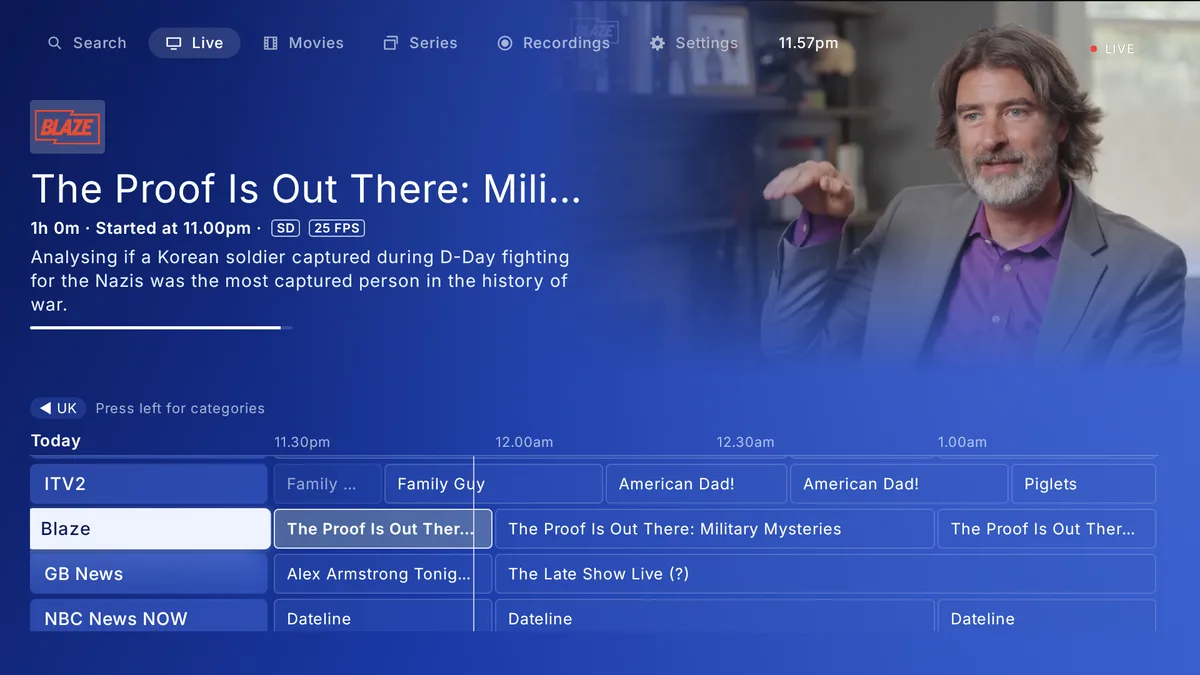
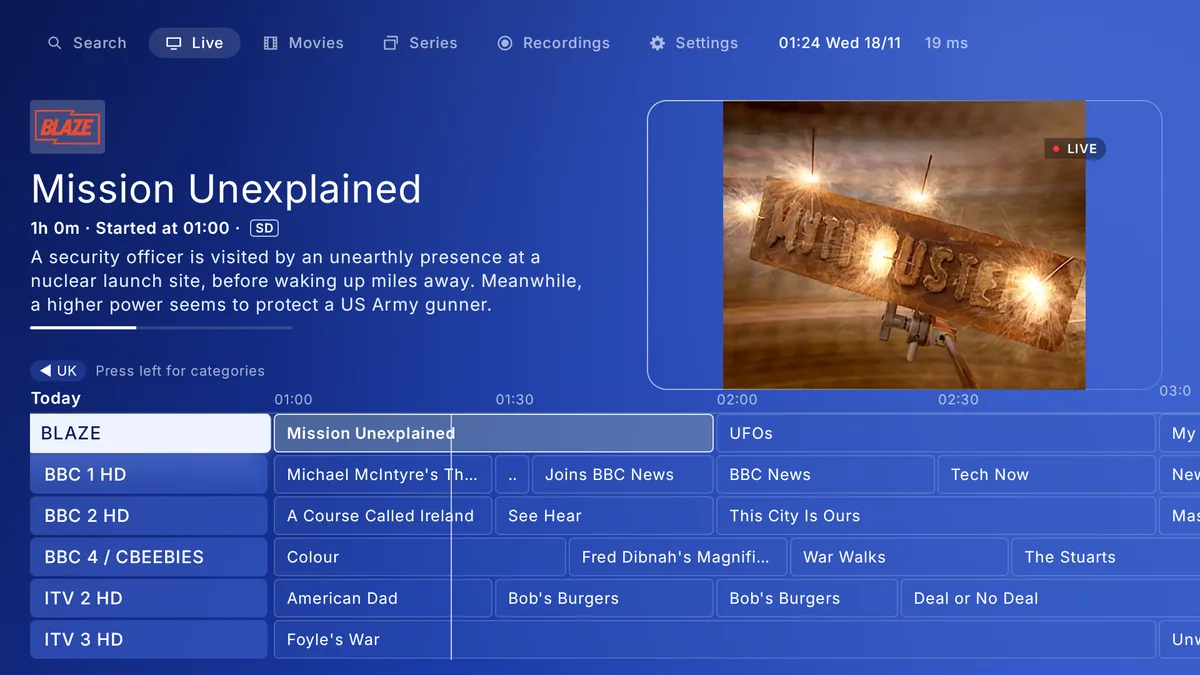
0.5.0: Backup & sync split into Backup & restore and Sync pages; generic pairing steps; new Celestial Glass site shot

diff --git a/app/src/main/java/org/imdtv/iptvtv/ui/settings/SyncSettings.kt b/app/src/main/java/org/imdtv/iptvtv/ui/settings/SyncSettings.kt
@@ -44,16 +44,17 @@ private const val SYNC_LIMITS = "• Both boxes must be on, with IMD TV open or 
     "• Changes made on a follower are replaced at its next sync.\n" +
     "• Logins are sent only to boxes you pair, on this network."
 
-private fun masterSteps(name: String) = "On each box that should copy this one:\n" +
-    "1. Open IMD TV › Settings › Backup & sync › Sync between boxes.\n" +
-    "2. Set This box to Follower.\n" +
-    "3. Choose Master, then pick $name.\n" +
-    "4. A code appears on this screen: type it on the other box and choose Pair.\n" +
-    "That box then copies this one. Add as many boxes as you like; they're listed under Followers."
+private const val MASTER_STEPS = "This box is now the master. To add a follower, go to the other box:\n" +
+    "1. On the other box, open IMD TV › Settings › Backup & sync › Sync.\n" +
+    "2. Set Role to Follower, then choose Turn on and OK.\n" +
+    "3. Still on the other box, choose Master, then pick this box from the list.\n" +
+    "4. A six-digit code appears on this screen. Type it on the other box and choose Pair.\n" +
+    "Repeat for as many boxes as you like; they're listed here under Followers."
 
-private const val FOLLOWER_STEPS = "1. On the box to copy, open IMD TV › Settings › Backup & sync › Sync between boxes and set This box to Master.\n" +
-    "2. Here, choose Master, then pick that box from the list.\n" +
-    "3. A code appears on that box's screen: type it here and choose Pair.\n" +
+private const val FOLLOWER_STEPS = "This box is now a follower. To pair it:\n" +
+    "1. On the box to copy, open IMD TV › Settings › Backup & sync › Sync and set Role to Master.\n" +
+    "2. Back on this box, choose Master, then pick that box from the list.\n" +
+    "3. A six-digit code appears on that box's screen. Type it here and choose Pair.\n" +
     "This box then copies the master each time IMD TV opens and every 6 hours."
 
 private fun whenText(t: Long) = "${dayDate(t)} ${clockTime(t)}"
@@ -74,7 +75,7 @@ fun PairingPrompt(sync: SyncManager) {
     }
 }
 
-/** Settings › Backup & sync › Sync between boxes. */
+/** Settings › Backup & sync › Sync. */
 @Composable
 fun SyncPage(vm: SettingsViewModel, modifier: Modifier, first: FocusRequester, onClose: () -> Unit) {
     BackHandler(onBack = onClose)
@@ -97,8 +98,8 @@ fun SyncPage(vm: SettingsViewModel, modifier: Modifier, first: FocusRequester, o
     val m = state.master
 
     Column(modifier.verticalScroll(rememberScrollState()), verticalArrangement = Arrangement.spacedBy(6.dp)) {
-        Text("Sync between boxes", fontSize = 20.sp, color = Color.White, modifier = Modifier.padding(top = 6.dp, bottom = 18.dp))
-        ChoiceRow("This box", when (state.role) {
+        Text("Sync", fontSize = 20.sp, color = Color.White, modifier = Modifier.padding(top = 6.dp, bottom = 18.dp))
+        ChoiceRow("Role", when (state.role) {
                 SyncRole.OFF -> "One box (the master) keeps the others' playlists and settings the same"
                 SyncRole.MASTER -> "Other boxes copy this one"
                 SyncRole.FOLLOWER -> "This box copies the master"
@@ -111,7 +112,7 @@ fun SyncPage(vm: SettingsViewModel, modifier: Modifier, first: FocusRequester, o
             state.followers.forEach { f ->
                 SettingRow(f.name, f.lastSynced?.let { "Last synced ${whenText(it)}" } ?: "Not synced yet", "Remove") { removing = f }
             }
-            if (state.followers.isEmpty()) Text("No followers yet. On the other box choose Follower, then this box: ${sync.boxName}", fontSize = 14.sp, color = muted)
+            if (state.followers.isEmpty()) Text("No followers yet. On the other box, set Role to Follower, then choose Master and pick this box", fontSize = 14.sp, color = muted)
         }
         if (state.role == SyncRole.FOLLOWER) {
             SettingRow("Master", problem ?: m?.lastSynced?.let { "Last synced ${whenText(it)}" } ?: if (m != null) "Not synced yet" else "Not paired",
@@ -154,7 +155,7 @@ fun SyncPage(vm: SettingsViewModel, modifier: Modifier, first: FocusRequester, o
     }
     setup?.let { r ->
         MenuFrame(if (r == SyncRole.MASTER) "Set up a follower" else "Pair with the master", onDismiss = { setup = null }) { f ->
-            ScrollText(if (r == SyncRole.MASTER) masterSteps(sync.boxName) else FOLLOWER_STEPS, Modifier.focusRequester(f).padding(bottom = 10.dp))
+            ScrollText(if (r == SyncRole.MASTER) MASTER_STEPS else FOLLOWER_STEPS, Modifier.focusRequester(f).padding(bottom = 10.dp))
             MenuItem("OK", Modifier) { setup = null }
         }
     }

diff --git a/app/src/main/java/org/imdtv/iptvtv/ui/settings/SettingsScreen.kt b/app/src/main/java/org/imdtv/iptvtv/ui/settings/SettingsScreen.kt
@@ -77,6 +77,9 @@ fun SettingsScreen(vm: SettingsViewModel, onAddPlaylist: () -> Unit, onEditPlayl
     var syncOpen by remember { mutableStateOf(false) }
     var reopenSync by remember { mutableStateOf(false) }
     val syncOpener = remember { FocusRequester() }
+    var backupOpen by remember { mutableStateOf(false) }
+    var reopenBackup by remember { mutableStateOf(false) }
+    val backupOpener = remember { FocusRequester() }
     var reopenSources by remember { mutableStateOf(false) }
     val sourcesOpener = remember { FocusRequester() }
     var reopenPlaylist by remember { mutableStateOf<Long?>(null) }
@@ -118,6 +121,14 @@ fun SettingsScreen(vm: SettingsViewModel, onAddPlaylist: () -> Unit, onEditPlayl
         enterTarget.value = null
         reopenSync = false
     }
+    LaunchedEffect(backupOpen) {
+        if (backupOpen || !reopenBackup) return@LaunchedEffect
+        enterTarget.value = backupOpener
+        withFrameNanos { }
+        runCatching { backupOpener.requestFocus() }
+        enterTarget.value = null
+        reopenBackup = false
+    }
     LaunchedEffect(playlist) {
         val back = reopenPlaylist?.takeIf { playlist == null } ?: return@LaunchedEffect
         withFrameNanos { }
@@ -140,7 +151,7 @@ fun SettingsScreen(vm: SettingsViewModel, onAddPlaylist: () -> Unit, onEditPlayl
                     FocusBox(
                         onClick = { runCatching { rowsFocus.requestFocus() } },
                         modifier = if (g == group) Modifier.focusRequester(groupFocus) else Modifier,
-                        onFocused = { if (g != group) { page = null; playlist = null; sourcesOpen = false; recordingOpen = false; syncOpen = false }; group = g },
+                        onFocused = { if (g != group) { page = null; playlist = null; sourcesOpen = false; recordingOpen = false; syncOpen = false; backupOpen = false }; group = g },
                     ) { f ->
                         Text(
                             g.title, fontSize = 15.sp, color = if (f) Color.Black else if (g == group) Color.White else LocalTheme.current.colors.muted,
@@ -178,7 +189,8 @@ fun SettingsScreen(vm: SettingsViewModel, onAddPlaylist: () -> Unit, onEditPlayl
             if (sourcesOpen) EpgSourcesPage(vm, pane, rowsFocus, { park() }) { park(); reopenSources = true; sourcesOpen = false }
             if (recordingOpen) org.imdtv.iptvtv.recording.RecordingPage(vm, pane, rowsFocus) { park(); reopenRecording = true; recordingOpen = false }
             if (syncOpen) SyncPage(vm, pane, rowsFocus) { park(); reopenSync = true; syncOpen = false }
-            if (page == null && playlist == null && !sourcesOpen && !recordingOpen && !syncOpen) Column(pane.verticalScroll(rememberScrollState()), verticalArrangement = Arrangement.spacedBy(6.dp)) {
+            if (backupOpen) BackupPage(vm, pane, rowsFocus) { park(); reopenBackup = true; backupOpen = false }
+            if (page == null && playlist == null && !sourcesOpen && !recordingOpen && !syncOpen && !backupOpen) Column(pane.verticalScroll(rememberScrollState()), verticalArrangement = Arrangement.spacedBy(6.dp)) {
                 val syncNow by vm.sync.state.collectAsState()
                 syncNow.master?.takeIf { syncNow.role == org.imdtv.iptvtv.data.sync.SyncRole.FOLLOWER }?.let {
                     Text("Following ${it.name}: changes made here are replaced at the next sync.", fontSize = 14.sp, color = LocalTheme.current.colors.muted)
@@ -222,7 +234,12 @@ fun SettingsScreen(vm: SettingsViewModel, onAddPlaylist: () -> Unit, onEditPlayl
                             vm.update { it.copy(showPing = on) }
                         }
                     }
-                    SettingsGroup.BACKUP -> BackupRows(vm, first, Modifier.focusRequester(syncOpener)) { park(); syncOpen = true }
+                    SettingsGroup.BACKUP -> {
+                        SettingRow("Backup & restore", "Back up now, choose the backup folder, or restore a backup", "›",
+                            first.focusRequester(backupOpener)) { park(); backupOpen = true }
+                        SettingRow("Sync", "One box (the master) keeps the others' playlists and settings the same",
+                            syncRoleLabel(syncNow.role) + " ›", Modifier.focusRequester(syncOpener)) { park(); syncOpen = true }
+                    }
                     SettingsGroup.ABOUT -> AboutRows(first)
                 }
             }

diff --git a/app/src/main/java/org/imdtv/iptvtv/ui/settings/BackupSettings.kt b/app/src/main/java/org/imdtv/iptvtv/ui/settings/BackupSettings.kt
@@ -1,7 +1,11 @@
 package org.imdtv.iptvtv.ui.settings
 
 import androidx.activity.compose.BackHandler
+import androidx.compose.foundation.layout.Arrangement
+import androidx.compose.foundation.layout.Column
 import androidx.compose.foundation.layout.padding
+import androidx.compose.foundation.rememberScrollState
+import androidx.compose.foundation.verticalScroll
 import androidx.compose.runtime.Composable
 import androidx.compose.runtime.LaunchedEffect
 import androidx.compose.runtime.collectAsState
@@ -27,7 +31,7 @@ import org.imdtv.iptvtv.ui.theme.LocalTheme
  * "Back up now" and "Restore" stay put while the list/form below them changes, so focus always has a row to return to.
  */
 @Composable
-fun BackupRows(vm: SettingsViewModel, first: Modifier, syncOpener: Modifier, onOpenSync: () -> Unit) {
+fun BackupRows(vm: SettingsViewModel, first: Modifier) {
     val status by vm.backupStatus.collectAsState()
     val files by vm.backupFiles.collectAsState()
     val pending by vm.pendingRestore.collectAsState()
@@ -47,9 +51,6 @@ fun BackupRows(vm: SettingsViewModel, first: Modifier, syncOpener: Modifier, onO
     SettingRow("Back up now", "Save playlists, categories, favourites and settings to a file — logins are never saved", null, first) { vm.backUpNow() }
     SettingRow("Backup folder", "Where backups are saved; OK to choose", settings.backupFolder?.substringAfterLast('/') ?: "Downloads",
         Modifier.focusRequester(folderRow)) { listing = false; browsing = BrowseMode.SAVE }
-    val syncState by vm.sync.state.collectAsState()
-    SettingRow("Sync between boxes", "One box (the master) keeps the others' playlists and settings the same",
-        syncRoleLabel(syncState.role) + " ›", syncOpener) { park(); onOpenSync() }
     browsing?.let { mode ->
         FolderBrowser(mode, park = ::park, onClose = { park(); browsing = null; if (mode == BrowseMode.RESTORE) refocusRestore = true },
             onFolder = { vm.setBackupFolder(it) }, onFile = { vm.openBackup(it); listing = false })
@@ -69,6 +70,17 @@ fun BackupRows(vm: SettingsViewModel, first: Modifier, syncOpener: Modifier, onO
             if (files.isEmpty()) Text("No backups in Downloads, your backup folder or on USB sticks", fontSize = 14.sp, color = LocalTheme.current.colors.muted)
             SettingRow("Browse for a backup…", "Find a backup file in any folder", "›") { park(); browsing = BrowseMode.RESTORE }
         }
+    }
+}
+
+/** Settings › Backup & sync › Backup & restore. */
+@Composable
+fun BackupPage(vm: SettingsViewModel, modifier: Modifier, first: FocusRequester, onClose: () -> Unit) {
+    BackHandler(onBack = onClose)
+    LaunchedEffect(Unit) { withFrameNanos { }; runCatching { first.requestFocus() } }
+    Column(modifier.verticalScroll(rememberScrollState()), verticalArrangement = Arrangement.spacedBy(6.dp)) {
+        Text("Backup & restore", fontSize = 20.sp, color = Color.White, modifier = Modifier.padding(top = 6.dp, bottom = 18.dp))
+        BackupRows(vm, Modifier.focusRequester(first))
     }
 }
 

diff --git a/app/src/test/java/org/imdtv/iptvtv/data/security/WithLoginTest.kt b/app/src/test/java/org/imdtv/iptvtv/data/security/WithLoginTest.kt
@@ -29,8 +29,8 @@ class WithLoginTest {
         assertEquals(true, urlHoldsAny("http://h/xmltv.php?username=al&password=p%40ss%20word", login))
         assertEquals(true, urlHoldsAny("http://h/al/x/epg.xml", login))
         assertEquals(false, urlHoldsAny("http://h/global/channels.xml", login)) // "al" inside a word isn't the login
-        val long = listOf("jon", "S3cretPw")
-        assertEquals(true, urlHoldsAny("http://h/epg/jon/S3cretPw.xml", long))
-        assertEquals(true, urlHoldsAny("http://h/epg.xml?auth=jon:S3cretPw", long))
+        val long = listOf("user1", "S3cretPw")
+        assertEquals(true, urlHoldsAny("http://h/epg/user1/S3cretPw.xml", long))
+        assertEquals(true, urlHoldsAny("http://h/epg.xml?auth=user1:S3cretPw", long))
     }
 }
